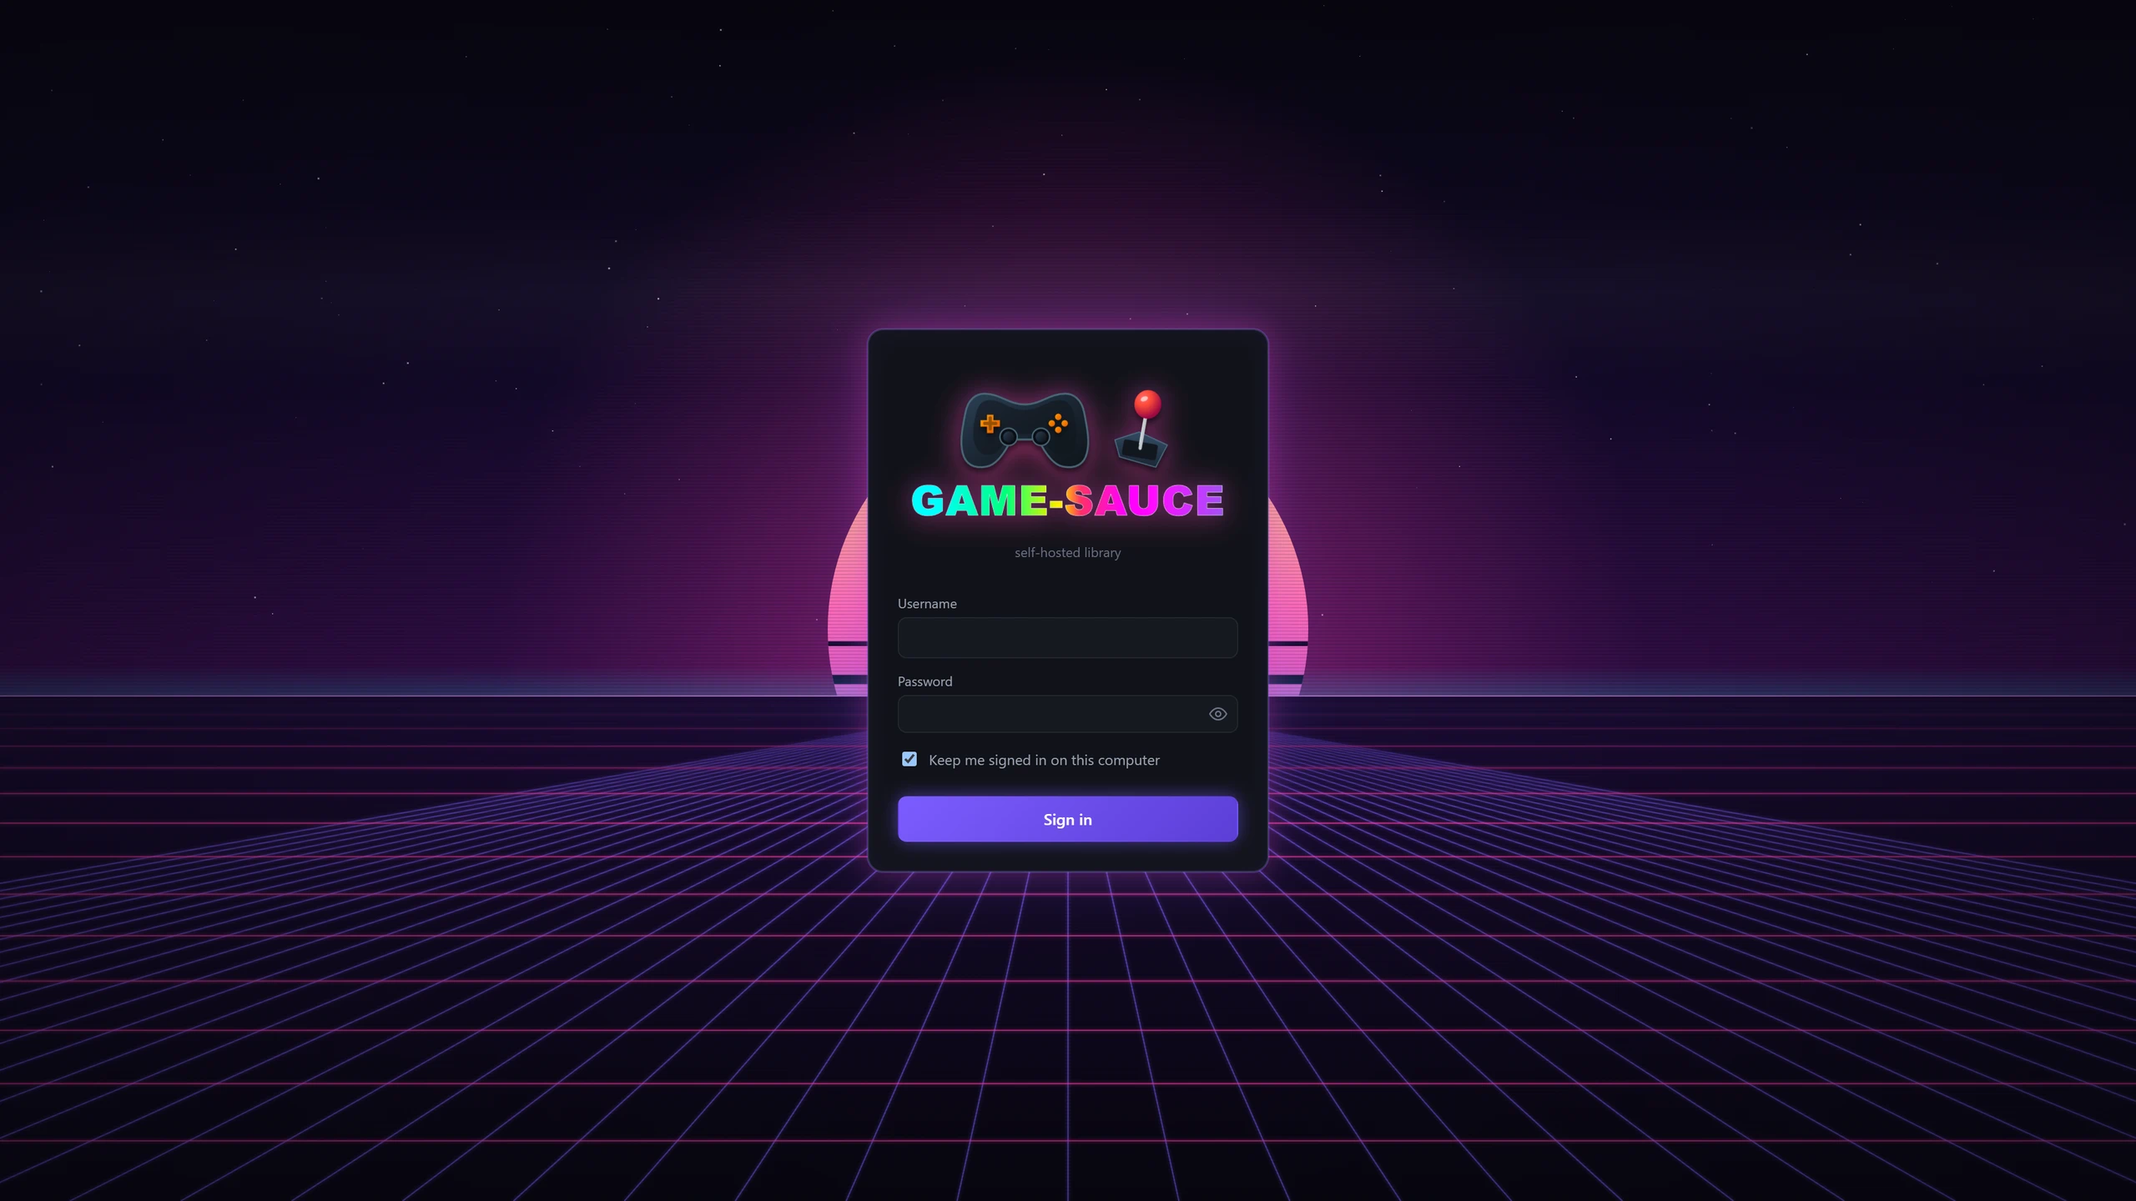
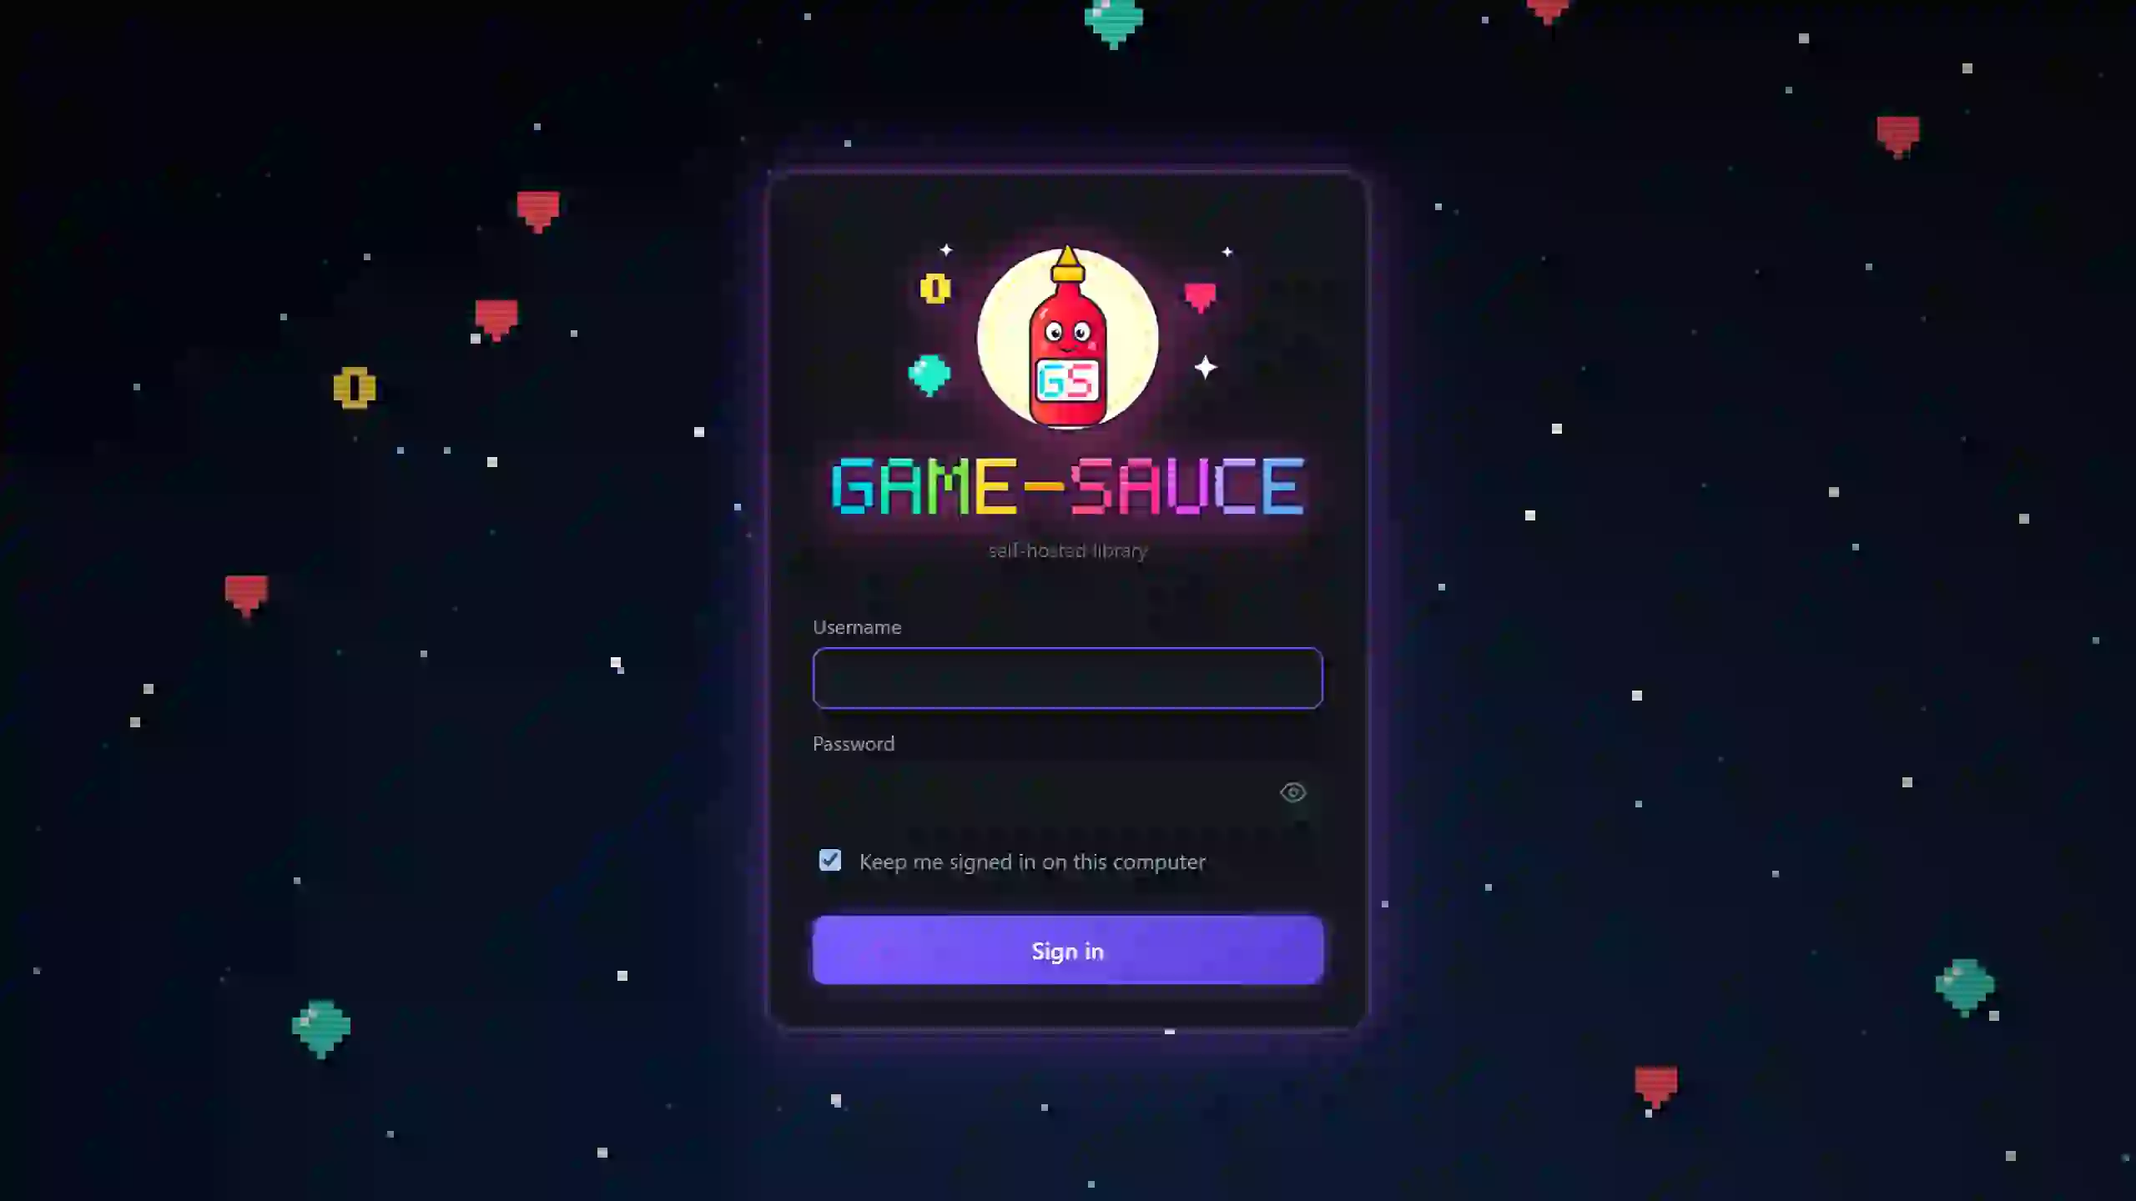
Website: the sign-in screenshot shows the new pixel-arcade sign-in with the mascot (it was the old synthwave one)

diff --git a/site/ja/index.html b/site/ja/index.html
@@ -262,7 +262,7 @@
       <figure class="shot"><img src="../img/library-light.webp" loading="lazy" width="1500" height="900" alt="ライトテーマのライブラリ"><figcaption>ライトテーマ</figcaption></figure>
       <figure class="shot"><img src="../img/collections.webp" loading="lazy" width="2400" height="528" alt="コレクションのページ：ゲームのカバーとゲーム数が付いた2つのコレクション"><figcaption>コレクション</figcaption></figure>
       <figure class="shot"><img src="../img/library-classic.webp" loading="lazy" width="1920" height="1080" alt="クラシック表示：サイドバー、数付きのプラットフォームファミリーのチップ、お気に入りに金色のスターが付いたカバーのグリッド"><figcaption>クラシック表示</figcaption></figure>
-      <figure class="shot"><img src="../img/login.webp" loading="lazy" width="2560" height="1440" alt="サインイン画面：ネオンのグリッドの上の game-sauce のロゴと、ユーザー名とパスワードの入力欄"><figcaption>サインイン画面</figcaption></figure>
+      <figure class="shot"><img src="../img/login.webp" loading="lazy" width="2560" height="1440" alt="サインイン画面。ドット文字の名前の上に game-sauce のマスコット、背景はドットの星とコイン、ハート、宝石が舞う夜空で、ユーザー名とパスワードの入力欄がある"><figcaption>サインイン画面</figcaption></figure>
       <figure class="shot"><img src="../img/shelf-open.webp" loading="lazy" width="2560" height="1440" alt="物理ライブラリの棚。緑の Xbox 360 のケースが開き、説明書とディスクが見える"><figcaption>棚で開いたケース</figcaption></figure>
       <figure class="shot"><img src="../img/carousel.webp" loading="lazy" width="1920" height="1080" alt="カルーセル：扇状のカバーと、その下の「ブラウザーでプレイ」「この PC でプレイ」"><figcaption>カルーセル</figcaption></figure>
       <figure class="shot"><img src="../img/launcher-setup.webp" loading="lazy" width="1500" height="1000" alt="ランチャーの設定ページ：プラットフォームごとの行に、エミュレーターのプログラムと引数、RetroArch のコアのボタン"><figcaption>PC でエミュレーターを設定、RetroArch のコア選択付き</figcaption></figure>

diff --git a/site/es/index.html b/site/es/index.html
@@ -262,7 +262,7 @@
       <figure class="shot"><img src="../img/library-light.webp" loading="lazy" width="1500" height="900" alt="La biblioteca en el tema claro"><figcaption>El tema claro</figcaption></figure>
       <figure class="shot"><img src="../img/collections.webp" loading="lazy" width="2400" height="528" alt="La página Colecciones: dos colecciones con las carátulas de sus juegos y el número de juegos"><figcaption>Colecciones</figcaption></figure>
       <figure class="shot"><img src="../img/library-classic.webp" loading="lazy" width="1920" height="1080" alt="El aspecto clásico: una barra lateral, etiquetas de familia de plataformas con recuentos, y una cuadrícula de carátulas con estrellas doradas en los favoritos"><figcaption>El aspecto clásico</figcaption></figure>
-      <figure class="shot"><img src="../img/login.webp" loading="lazy" width="2560" height="1440" alt="La pantalla de inicio de sesión: el logotipo de game-sauce sobre una cuadrícula de neón, con cuadros de usuario y contraseña"><figcaption>La pantalla de inicio de sesión</figcaption></figure>
+      <figure class="shot"><img src="../img/login.webp" loading="lazy" width="2560" height="1440" alt="La pantalla de inicio de sesión: la mascota de game-sauce sobre el nombre en píxeles, con un cielo nocturno de estrellas de píxeles, monedas, corazones y gemas, y los campos de usuario y contraseña"><figcaption>La pantalla de inicio de sesión</figcaption></figure>
       <figure class="shot"><img src="../img/shelf-open.webp" loading="lazy" width="2560" height="1440" alt="La estantería Física con una caja verde de Xbox 360 abierta, que muestra su manual y su disco"><figcaption>Una caja abierta en la estantería</figcaption></figure>
       <figure class="shot"><img src="../img/carousel.webp" loading="lazy" width="1920" height="1080" alt="El Carrusel: un abanico de carátulas con Jugar en el navegador y Jugar en este PC debajo"><figcaption>El Carrusel</figcaption></figure>
       <figure class="shot"><img src="../img/launcher-setup.webp" loading="lazy" width="1500" height="1000" alt="La página de configuración del lanzador: una fila por plataforma con su programa emulador y argumentos, y un botón de núcleo de RetroArch"><figcaption>Configurar emuladores en tu PC, con un selector de núcleos de RetroArch</figcaption></figure>

diff --git a/site/fr/index.html b/site/fr/index.html
@@ -262,7 +262,7 @@
       <figure class="shot"><img src="../img/library-light.webp" loading="lazy" width="1500" height="900" alt="La bibliothèque avec le thème clair"><figcaption>Le thème clair</figcaption></figure>
       <figure class="shot"><img src="../img/collections.webp" loading="lazy" width="2400" height="528" alt="La page Collections : deux collections avec les jaquettes de leurs jeux et leur nombre de jeux"><figcaption>Collections</figcaption></figure>
       <figure class="shot"><img src="../img/library-classic.webp" loading="lazy" width="1920" height="1080" alt="Le look classique : une barre latérale, des pastilles de famille de plateformes avec leurs totaux, et une grille de jaquettes avec des étoiles dorées sur les favoris"><figcaption>Le look classique</figcaption></figure>
-      <figure class="shot"><img src="../img/login.webp" loading="lazy" width="2560" height="1440" alt="L'écran de connexion : le logo game-sauce sur une grille néon, avec des champs nom d'utilisateur et mot de passe"><figcaption>L'écran de connexion</figcaption></figure>
+      <figure class="shot"><img src="../img/login.webp" loading="lazy" width="2560" height="1440" alt="L’écran de connexion : la mascotte de game-sauce au-dessus du nom en pixels, sur un ciel nocturne d’étoiles pixel avec pièces, cœurs et gemmes, avec les champs d’identifiant et de mot de passe"><figcaption>L'écran de connexion</figcaption></figure>
       <figure class="shot"><img src="../img/shelf-open.webp" loading="lazy" width="2560" height="1440" alt="L’étagère Physique avec un boîtier Xbox 360 vert ouvert, montrant son manuel et son disque"><figcaption>Un boîtier ouvert sur l'étagère</figcaption></figure>
       <figure class="shot"><img src="../img/carousel.webp" loading="lazy" width="1920" height="1080" alt="Le Carrousel : un éventail de jaquettes avec Jouer dans le navigateur et Jouer sur ce PC en dessous"><figcaption>Le Carrousel</figcaption></figure>
       <figure class="shot"><img src="../img/launcher-setup.webp" loading="lazy" width="1500" height="1000" alt="La page de configuration du lanceur : une ligne par plateforme avec son programme d'émulateur et ses arguments, et un bouton de cœur RetroArch"><figcaption>Configurer les émulateurs sur votre PC, avec un sélecteur de cœur RetroArch</figcaption></figure>

diff --git a/site/de/index.html b/site/de/index.html
@@ -262,7 +262,7 @@
       <figure class="shot"><img src="../img/library-light.webp" loading="lazy" width="1500" height="900" alt="Die Bibliothek im hellen Design"><figcaption>Das helle Design</figcaption></figure>
       <figure class="shot"><img src="../img/collections.webp" loading="lazy" width="2400" height="528" alt="Die Seite Sammlungen: zwei Sammlungen mit den Covern ihrer Spiele und der Spieleanzahl"><figcaption>Sammlungen</figcaption></figure>
       <figure class="shot"><img src="../img/library-classic.webp" loading="lazy" width="1920" height="1080" alt="Das klassische Aussehen: eine Seitenleiste, Plattform-Familien-Chips mit Zahlen und ein Raster aus Covern mit goldenen Sternen bei den Favoriten"><figcaption>Das klassische Aussehen</figcaption></figure>
-      <figure class="shot"><img src="../img/login.webp" loading="lazy" width="2560" height="1440" alt="Der Anmeldebildschirm: das game-sauce-Logo über einem Neon-Gitter, mit Feldern für Benutzername und Passwort"><figcaption>Der Anmeldebildschirm</figcaption></figure>
+      <figure class="shot"><img src="../img/login.webp" loading="lazy" width="2560" height="1440" alt="Der Anmeldebildschirm: das game-sauce-Maskottchen über dem Pixel-Namen vor einem Nachthimmel aus Pixelsternen mit Münzen, Herzen und Edelsteinen, mit Feldern für Benutzername und Passwort"><figcaption>Der Anmeldebildschirm</figcaption></figure>
       <figure class="shot"><img src="../img/shelf-open.webp" loading="lazy" width="2560" height="1440" alt="Das Physical-Regal mit einer geöffneten grünen Xbox-360-Hülle, in der Anleitung und Disc zu sehen sind"><figcaption>Eine geöffnete Hülle im Regal</figcaption></figure>
       <figure class="shot"><img src="../img/carousel.webp" loading="lazy" width="1920" height="1080" alt="Das Karussell: ein Fächer aus Covern mit Im Browser spielen und Auf diesem PC spielen darunter"><figcaption>Das Karussell</figcaption></figure>
       <figure class="shot"><img src="../img/launcher-setup.webp" loading="lazy" width="1500" height="1000" alt="Die Launcher-Einrichtungsseite: eine Zeile pro Plattform mit ihrem Emulatorprogramm und den Argumenten und einer RetroArch-Core-Schaltfläche"><figcaption>Emulatoren auf deinem PC einrichten, mit einer RetroArch-Core-Auswahl</figcaption></figure>

diff --git a/site/it/index.html b/site/it/index.html
@@ -262,7 +262,7 @@
       <figure class="shot"><img src="../img/library-light.webp" loading="lazy" width="1500" height="900" alt="La libreria nel tema chiaro"><figcaption>Il tema chiaro</figcaption></figure>
       <figure class="shot"><img src="../img/collections.webp" loading="lazy" width="2400" height="528" alt="La pagina Raccolte: due raccolte con le copertine dei giochi e il numero di giochi"><figcaption>Raccolte</figcaption></figure>
       <figure class="shot"><img src="../img/library-classic.webp" loading="lazy" width="1920" height="1080" alt="L'aspetto classico: una barra laterale, chip delle famiglie di piattaforme con i conteggi e una griglia di copertine con stelle dorate sui preferiti"><figcaption>L'aspetto classico</figcaption></figure>
-      <figure class="shot"><img src="../img/login.webp" loading="lazy" width="2560" height="1440" alt="La schermata di accesso: il logo di game-sauce su una griglia al neon, con i campi nome utente e password"><figcaption>La schermata di accesso</figcaption></figure>
+      <figure class="shot"><img src="../img/login.webp" loading="lazy" width="2560" height="1440" alt="La schermata di accesso: la mascotte di game-sauce sopra il nome in pixel, su un cielo notturno di stelle pixel con monete, cuori e gemme, con i campi di nome utente e password"><figcaption>La schermata di accesso</figcaption></figure>
       <figure class="shot"><img src="../img/shelf-open.webp" loading="lazy" width="2560" height="1440" alt="Lo scaffale Fisico con una custodia verde di Xbox 360 aperta, che mostra il manuale e il disco"><figcaption>Una custodia aperta sullo scaffale</figcaption></figure>
       <figure class="shot"><img src="../img/carousel.webp" loading="lazy" width="1920" height="1080" alt="Il Carosello: un ventaglio di copertine con Gioca nel browser e Gioca su questo PC sotto"><figcaption>Il Carosello</figcaption></figure>
       <figure class="shot"><img src="../img/launcher-setup.webp" loading="lazy" width="1500" height="1000" alt="La pagina di configurazione del launcher: una riga per ogni piattaforma con il suo programma emulatore e gli argomenti, e un pulsante per i core RetroArch"><figcaption>Configurazione degli emulatori sul tuo PC, con un selettore di core RetroArch</figcaption></figure>

diff --git a/site/pt/index.html b/site/pt/index.html
@@ -262,7 +262,7 @@
       <figure class="shot"><img src="../img/library-light.webp" loading="lazy" width="1500" height="900" alt="A biblioteca no tema claro"><figcaption>O tema claro</figcaption></figure>
       <figure class="shot"><img src="../img/collections.webp" loading="lazy" width="2400" height="528" alt="A página Coleções: duas coleções com as capas dos jogos e a contagem de jogos"><figcaption>Coleções</figcaption></figure>
       <figure class="shot"><img src="../img/library-classic.webp" loading="lazy" width="1920" height="1080" alt="O visual clássico: uma barra lateral, etiquetas de família de plataformas com contagens e uma grade de capas com estrelas douradas nos favoritos"><figcaption>O visual clássico</figcaption></figure>
-      <figure class="shot"><img src="../img/login.webp" loading="lazy" width="2560" height="1440" alt="A tela de login: o logotipo do game-sauce sobre uma grade de neon, com caixas de usuário e senha"><figcaption>A tela de login</figcaption></figure>
+      <figure class="shot"><img src="../img/login.webp" loading="lazy" width="2560" height="1440" alt="A tela de login: a mascote do game-sauce acima do nome em pixels, sobre um céu noturno de estrelas em pixels com moedas, corações e gemas, e os campos de usuário e senha"><figcaption>A tela de login</figcaption></figure>
       <figure class="shot"><img src="../img/shelf-open.webp" loading="lazy" width="2560" height="1440" alt="A estante Física com uma caixa verde de Xbox 360 aberta, mostrando o manual e o disco"><figcaption>Uma caixa aberta na estante</figcaption></figure>
       <figure class="shot"><img src="../img/carousel.webp" loading="lazy" width="1920" height="1080" alt="O Carrossel: um leque de capas com Jogar no navegador e Jogar neste PC embaixo"><figcaption>O Carrossel</figcaption></figure>
       <figure class="shot"><img src="../img/launcher-setup.webp" loading="lazy" width="1500" height="1000" alt="A página de configuração do iniciador: uma linha por plataforma com o programa emulador e os argumentos, e um botão de core do RetroArch"><figcaption>Configurando emuladores no seu PC, com um seletor de core do RetroArch</figcaption></figure>

diff --git a/site/zh/index.html b/site/zh/index.html
@@ -262,7 +262,7 @@
       <figure class="shot"><img src="../img/library-light.webp" loading="lazy" width="1500" height="900" alt="浅色主题下的游戏库"><figcaption>浅色主题</figcaption></figure>
       <figure class="shot"><img src="../img/collections.webp" loading="lazy" width="2400" height="528" alt="“合集”页面：两个合集，显示各自的游戏封面和游戏数量"><figcaption>合集</figcaption></figure>
       <figure class="shot"><img src="../img/library-classic.webp" loading="lazy" width="1920" height="1080" alt="经典外观：侧边栏、带数量的平台系列标签，以及封面网格，收藏的游戏上有金色星标"><figcaption>经典外观</figcaption></figure>
-      <figure class="shot"><img src="../img/login.webp" loading="lazy" width="2560" height="1440" alt="登录界面：霓虹网格上的 game-sauce 徽标，下方是用户名和密码输入框"><figcaption>登录界面</figcaption></figure>
+      <figure class="shot"><img src="../img/login.webp" loading="lazy" width="2560" height="1440" alt="登录界面：game-sauce 吉祥物位于像素风名称上方，背景是布满像素星星、金币、爱心和宝石的夜空，下方是用户名和密码输入框"><figcaption>登录界面</figcaption></figure>
       <figure class="shot"><img src="../img/shelf-open.webp" loading="lazy" width="2560" height="1440" alt="实体书架，一个绿色的 Xbox 360 盒子已打开，露出说明书和光盘"><figcaption>游戏架上打开的盒子</figcaption></figure>
       <figure class="shot"><img src="../img/carousel.webp" loading="lazy" width="1920" height="1080" alt="封面轮播：扇形排开的封面，下方是“在浏览器中游玩”和“在此电脑上游玩”"><figcaption>封面轮播</figcaption></figure>
       <figure class="shot"><img src="../img/launcher-setup.webp" loading="lazy" width="1500" height="1000" alt="启动器设置页面：每个平台一行，显示其模拟器程序和参数，另有 RetroArch 核心按钮"><figcaption>在你的电脑上设置模拟器，带有 RetroArch 核心选择器</figcaption></figure>

diff --git a/site/index.html b/site/index.html
@@ -262,7 +262,7 @@
       <figure class="shot"><img src="img/library-light.webp" loading="lazy" width="1500" height="900" alt="The library in the light theme"><figcaption>The light theme</figcaption></figure>
       <figure class="shot"><img src="img/collections.webp" loading="lazy" width="2400" height="528" alt="The Collections page: two collections with their game covers and game counts"><figcaption>Collections</figcaption></figure>
       <figure class="shot"><img src="img/library-classic.webp" loading="lazy" width="1920" height="1080" alt="The classic look: a sidebar, platform family chips with counts, and a grid of covers with gold stars on the favourites"><figcaption>The classic look</figcaption></figure>
-      <figure class="shot"><img src="img/login.webp" loading="lazy" width="2560" height="1440" alt="The sign-in screen: the game-sauce logo over a neon grid, with username and password boxes"><figcaption>The sign-in screen</figcaption></figure>
+      <figure class="shot"><img src="img/login.webp" loading="lazy" width="2560" height="1440" alt="The sign-in screen: the game-sauce mascot above the pixel name, over a night sky of pixel stars with coins, hearts and gems, with username and password boxes"><figcaption>The sign-in screen</figcaption></figure>
       <figure class="shot"><img src="img/shelf-open.webp" loading="lazy" width="2560" height="1440" alt="The Physical shelf with a green Xbox 360 case open, showing its manual and disc"><figcaption>A case opened on the shelf</figcaption></figure>
       <figure class="shot"><img src="img/carousel.webp" loading="lazy" width="1920" height="1080" alt="The Carousel: a fan of covers with Play in browser and Play on this PC below"><figcaption>The Carousel</figcaption></figure>
       <figure class="shot"><img src="img/launcher-setup.webp" loading="lazy" width="1500" height="1000" alt="The launcher setup page: a row for each platform with its emulator program and arguments, and a RetroArch core button"><figcaption>Setting up emulators on your PC, with a RetroArch core picker</figcaption></figure>
